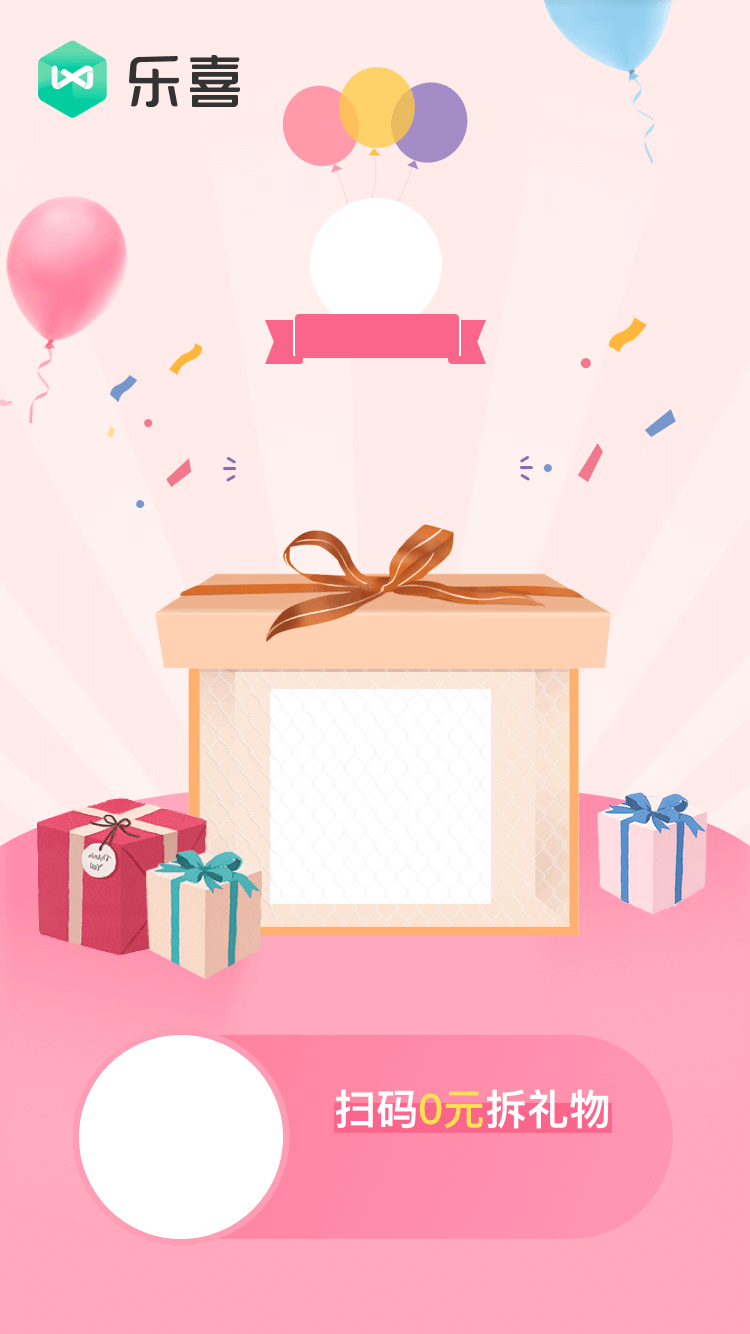
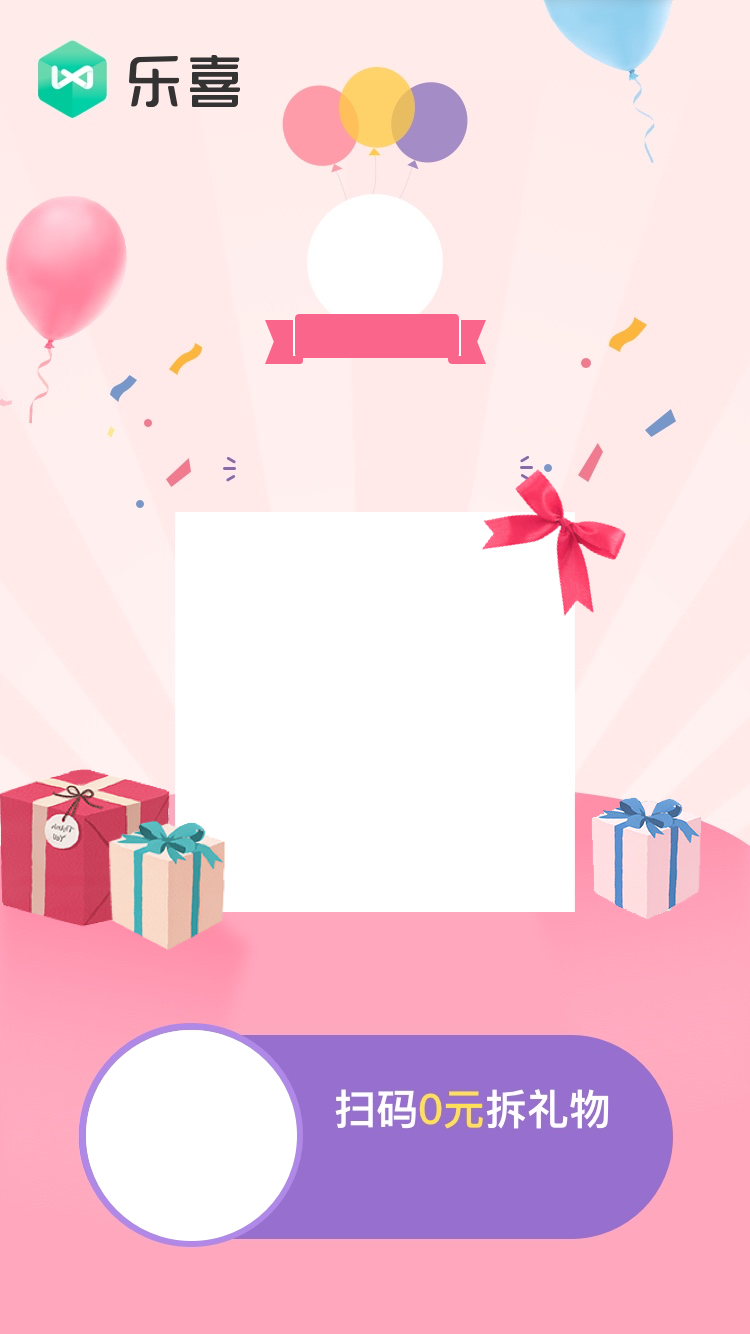
调整拆礼物海报的样式

Changed region(s): [[0.0, 0.3381, 0.9507, 0.7376], [0.092, 0.7684, 0.92, 0.9528], [0.1227, 0.8913, 0.184, 0.922]]

diff --git a/vimage/poster_style/gifts_style.py b/vimage/poster_style/gifts_style.py
@@ -41,12 +41,12 @@ class GiftsPosterStyle:
         # 商品图片
         goods_image_data = format_image_data(post_data=self.data, url=None, path=None,
                                              image_type=ImageType.Goods,
-                                             width=220, height=220, radius=0, x=270, y=689, z_index=2)
+                                             width=400, height=400, radius=0, x=175, y=512, z_index=2)
 
         # 小程序码
         wxa_code_image_data = format_image_data(post_data=self.data, url=None, path=None,
                                                 image_type=ImageType.WxaCode,
-                                                width=206, height=206, radius=0, x=77, y=1034, z_index=3)
+                                                width=212, height=212, radius=0, x=85, y=1030, z_index=3)
 
         # 背景
         background_image = '../vimage/vimage/resource/background/background_16.png'
@@ -73,10 +73,10 @@ class GiftsPosterStyle:
                                              text_color='#856AAF', x=253, y=443, spacing=None, z_index=3)
 
         # 开奖时间
-        time_text = '— %s开奖 —' % self.data.get('lottery_time')
+        time_text = '%s开奖' % self.data.get('lottery_time')
         time_data = format_text_data(post_data=None, text=time_text, text_type=TextType.Info,
                                      font_size=24, font_family=None, align='center',
-                                     text_color='#BF6736', x=170, y=625, spacing=None, z_index=4)
+                                     text_color='#FFFFFF', x=170, y=925, spacing=None, z_index=4)
 
         # 商品原价
         price_text = '原价：¥%s' % str(float(self.data.get('original_price')))
@@ -232,7 +232,7 @@ class GiftsPosterStyle:
         # 商品图片
         goods_image_data = format_image_data(post_data=self.data, url=None, path=None,
                                              image_type=ImageType.Goods,
-                                             width=135, height=135, radius=0, x=141, y=102, z_index=0)
+                                             width=240, height=240, radius=0, x=90, y=19, z_index=0)
 
         # 背景
         background_image = '../vimage/vimage/resource/background/background_19.png'
